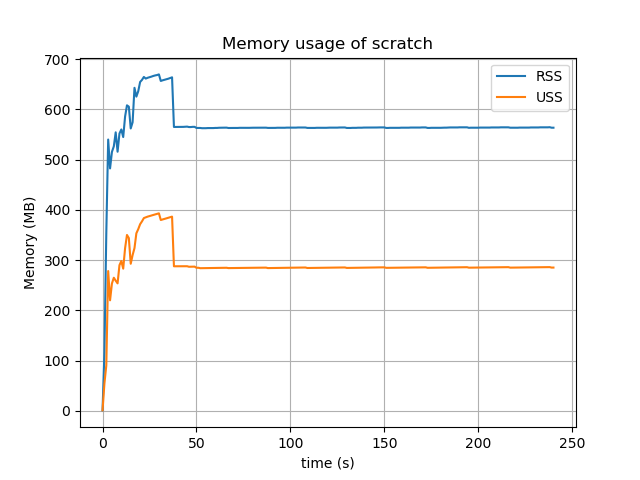
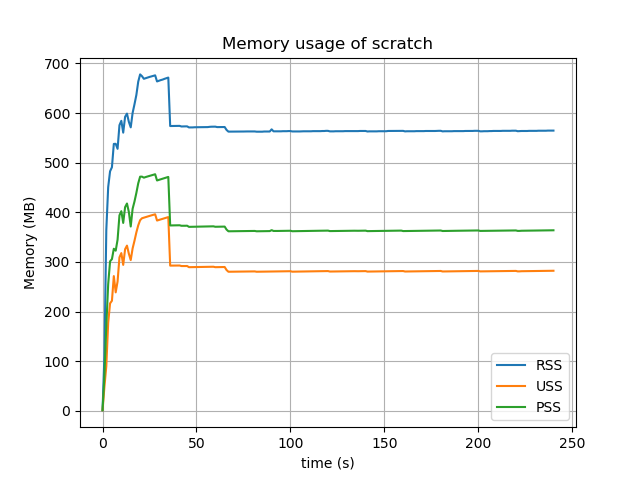
scratch3 orig image

diff --git a/README.md b/README.md
@@ -23,7 +23,9 @@ npx asar extract app.asar unpacked
 # Examples
 
 I believe now that PSS gives a more accurate measure of memory utilised when summed for child processes than RSS, as 
-I ran 'free -m' while Scratch was running and after, and the difference of free memory was around 370MB, which is much closer to the PSS value.
+I ran 'free -m' while Scratch (new version) was running and after, and the difference of free memory was around 370MB, which is much closer to the PSS value, around 375MB.
+
+The link - https://stackoverflow.com/questions/131303/how-to-measure-actual-memory-usage-of-an-application-or-process has some good information on RSS, USS and PSS.
 
 ## Scratch3 Raspbian Version
 
